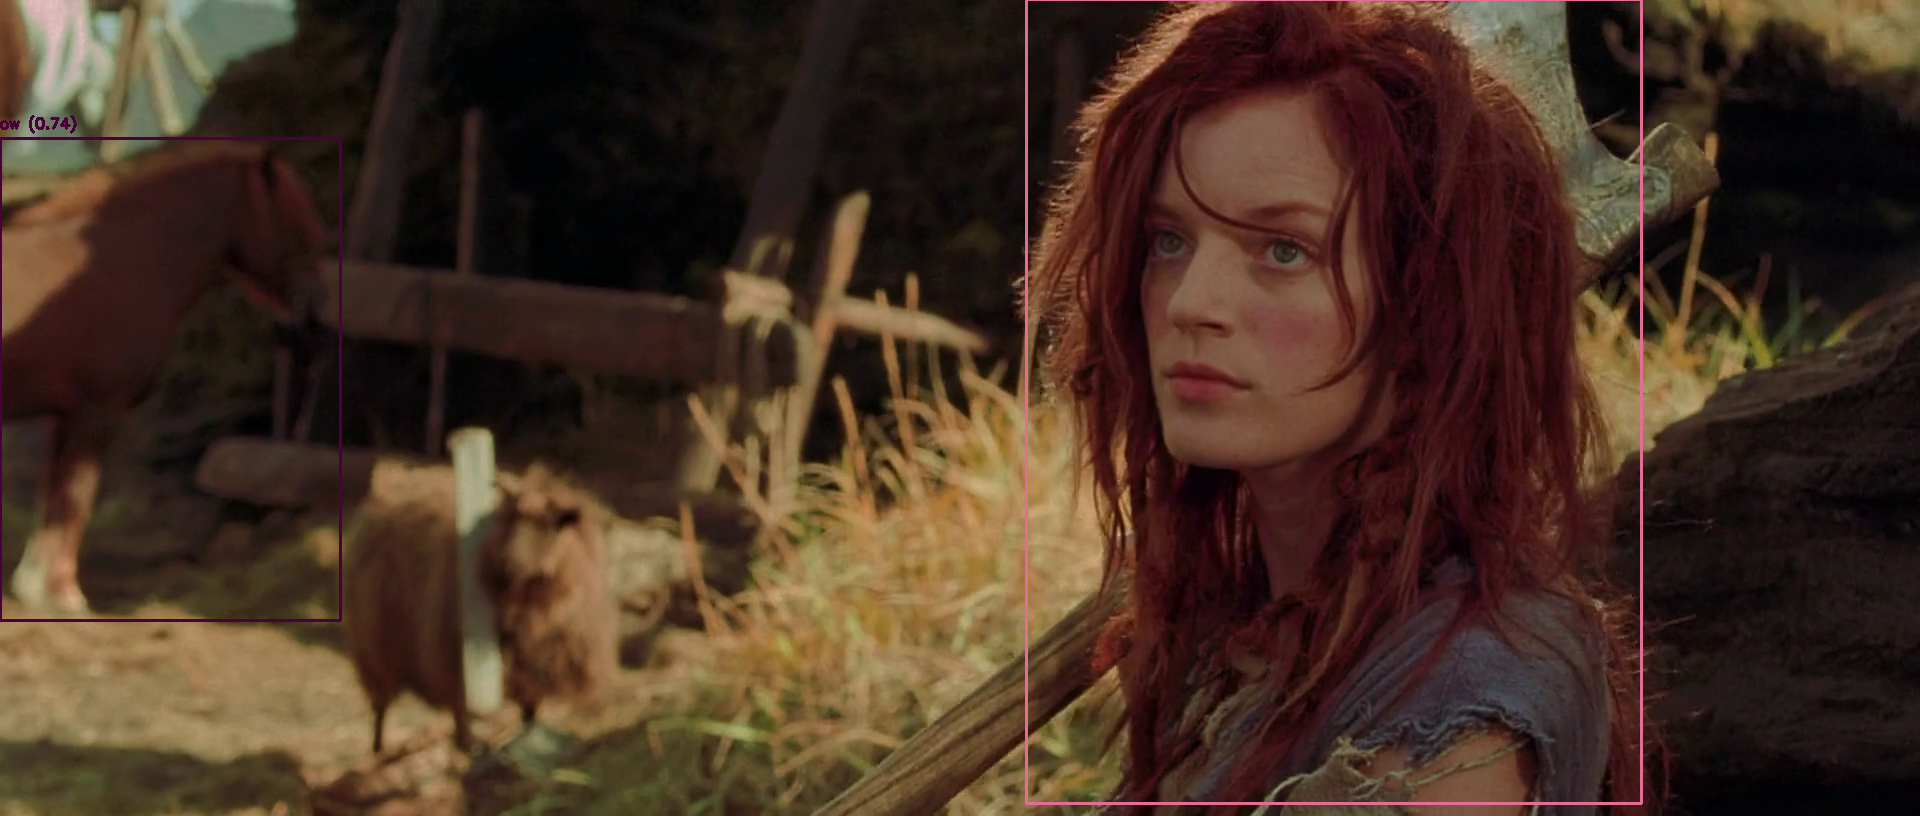
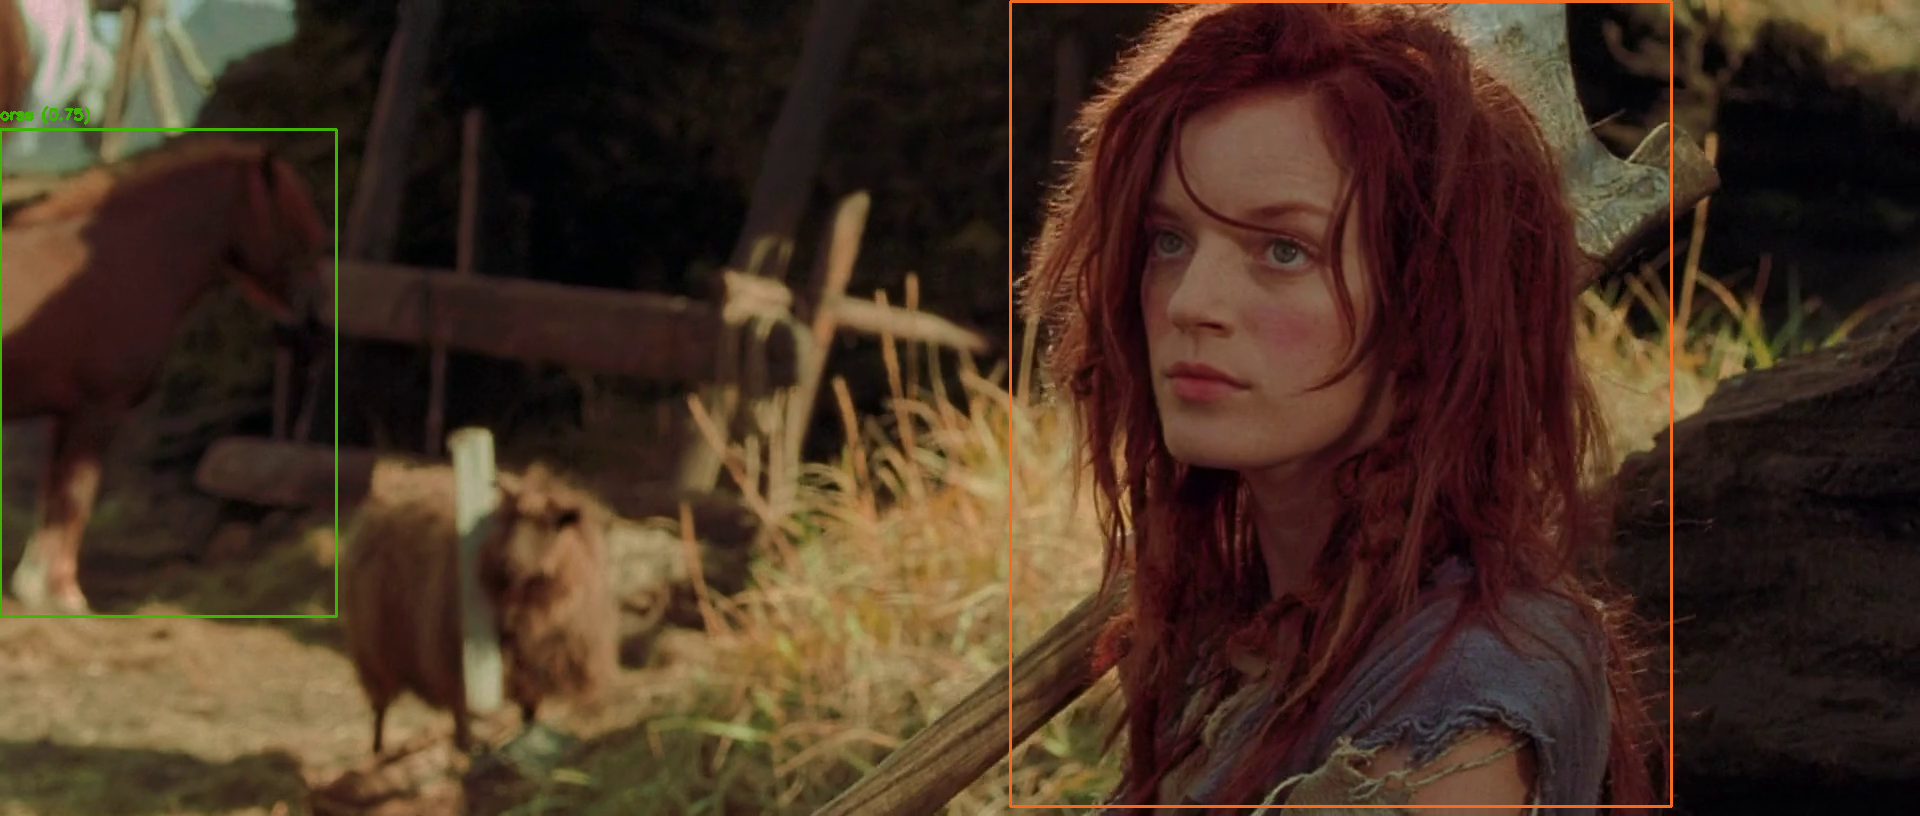
update

diff --git a/src/main2.py b/src/main2.py
@@ -1,0 +1,89 @@
+from __future__ import annotations
+import argparse
+from typing import Any
+from pathlib import Path
+
+import cv2
+import numpy as np
+from ultralytics import YOLO
+
+# Paths for models and images
+PROJECT_ROOT = Path(__file__).resolve().parent.parent
+MODEL_PATH = PROJECT_ROOT / "models"
+IMAGE_PATH = PROJECT_ROOT / "data" / "img"
+
+# Create required directories if they don't exist
+MODEL_PATH.mkdir(parents=True, exist_ok=True)
+(IMAGE_PATH / "input").mkdir(parents=True, exist_ok=True)
+(IMAGE_PATH / "output").mkdir(parents=True, exist_ok=True)
+
+
+def draw_bounding_box(img, label, confidence, x1, y1, x2, y2, color):
+    text = f"{label} ({confidence:.2f})"
+    cv2.rectangle(img, (x1, y1), (x2, y2), color, 2)
+    cv2.putText(img, text, (x1 - 10, y1 - 10), cv2.FONT_HERSHEY_SIMPLEX, 0.5, color, 2)
+
+# Inference function that processes images and returns detected objects with boxes and scores
+def main(model_path: str, input_image: str) -> list[dict[str, Any]]:
+    # Load YOLO26 model — auto-downloads yolo26n.pt if not present
+    model = YOLO(model_path)
+
+    colors = np.random.uniform(0, 255, size=(len(model.names), 3))
+
+    # Run inference
+    results = model(input_image, verbose=True)
+
+    original_image = cv2.imread(input_image)
+    detections = []
+
+    for result in results:
+        for box in result.boxes:
+            class_id = int(box.cls[0])
+            confidence = float(box.conf[0])
+            x1, y1, x2, y2 = map(int, box.xyxy[0])
+
+            detection = {
+                "class_id": class_id,
+                "class_name": model.names[class_id],
+                "confidence": confidence,
+                "box": [x1, y1, x2 - x1, y2 - y1],  # x, y, w, h
+            }
+            detections.append(detection)
+            draw_bounding_box(
+                original_image,
+                model.names[class_id],
+                confidence,
+                x1, y1, x2, y2,
+                colors[class_id],
+            )
+
+    output_filename = Path(input_image).stem + "_output" + Path(input_image).suffix
+    cv2.imwrite(str(IMAGE_PATH / "output" / output_filename), original_image)
+
+    return detections
+
+# Train the model on a custom dataset (coco8.yaml) for 100 epochs with 640x640 images
+def train(model_path: str, data: str = "coco8.yaml", epochs: int = 100, imgsz: int = 640):
+    model = YOLO(model_path)
+    return model.train(data=data, epochs=epochs, imgsz=imgsz)
+
+
+if __name__ == "__main__":
+    parser = argparse.ArgumentParser()
+    parser.add_argument("--model", default="yolo26n.pt")  # Run with yolo26n.pt by default, auto-downloads if not present
+    parser.add_argument("--img", default=None)
+    parser.add_argument("--train", action="store_true")
+    parser.add_argument("--data", default="coco8.yaml")
+    parser.add_argument("--epochs", type=int, default=100)
+    args = parser.parse_args()
+
+    model_arg = MODEL_PATH / args.model
+
+    if args.train:
+        train(model_arg, data=args.data, epochs=args.epochs)
+    elif args.img:
+        main(model_arg, args.img)
+    else:
+        # Run inference on all images in data/img/input
+        for img in (IMAGE_PATH / "input").glob("*.*"): 
+            main(model_arg, str(img))

diff --git a/README.md b/README.md
@@ -39,4 +39,6 @@ cd detector/src
 uv run main.py --model yolov8n.onnx --img image.png
 # Run multiple images
 uv run main.py
+# Run with yolo26
+uv run main2.py 
 ```
